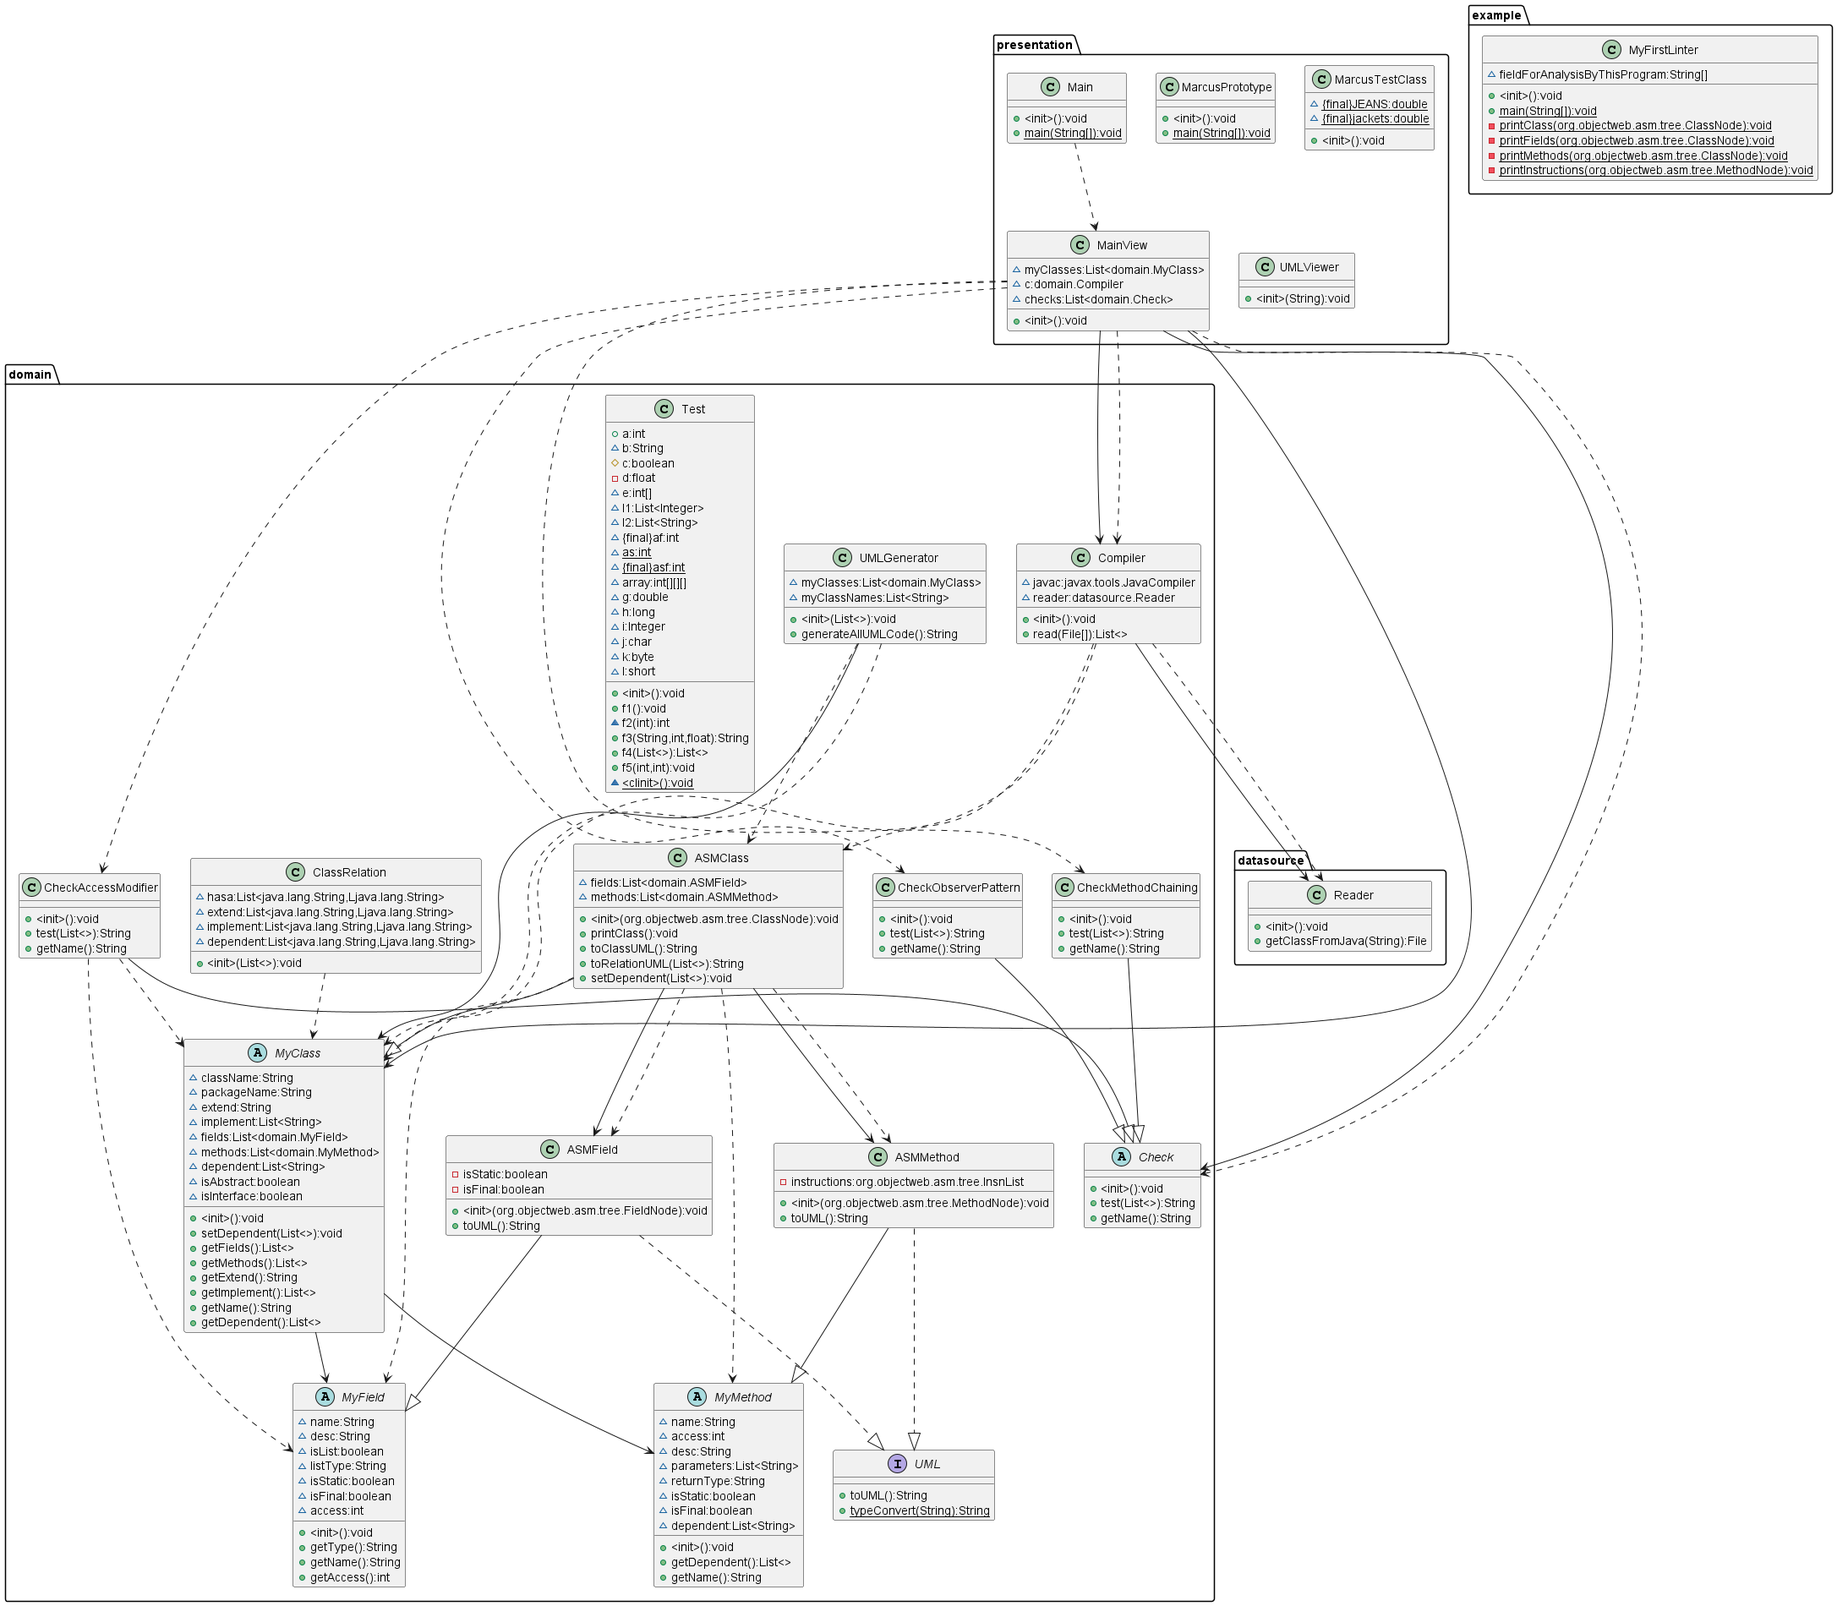
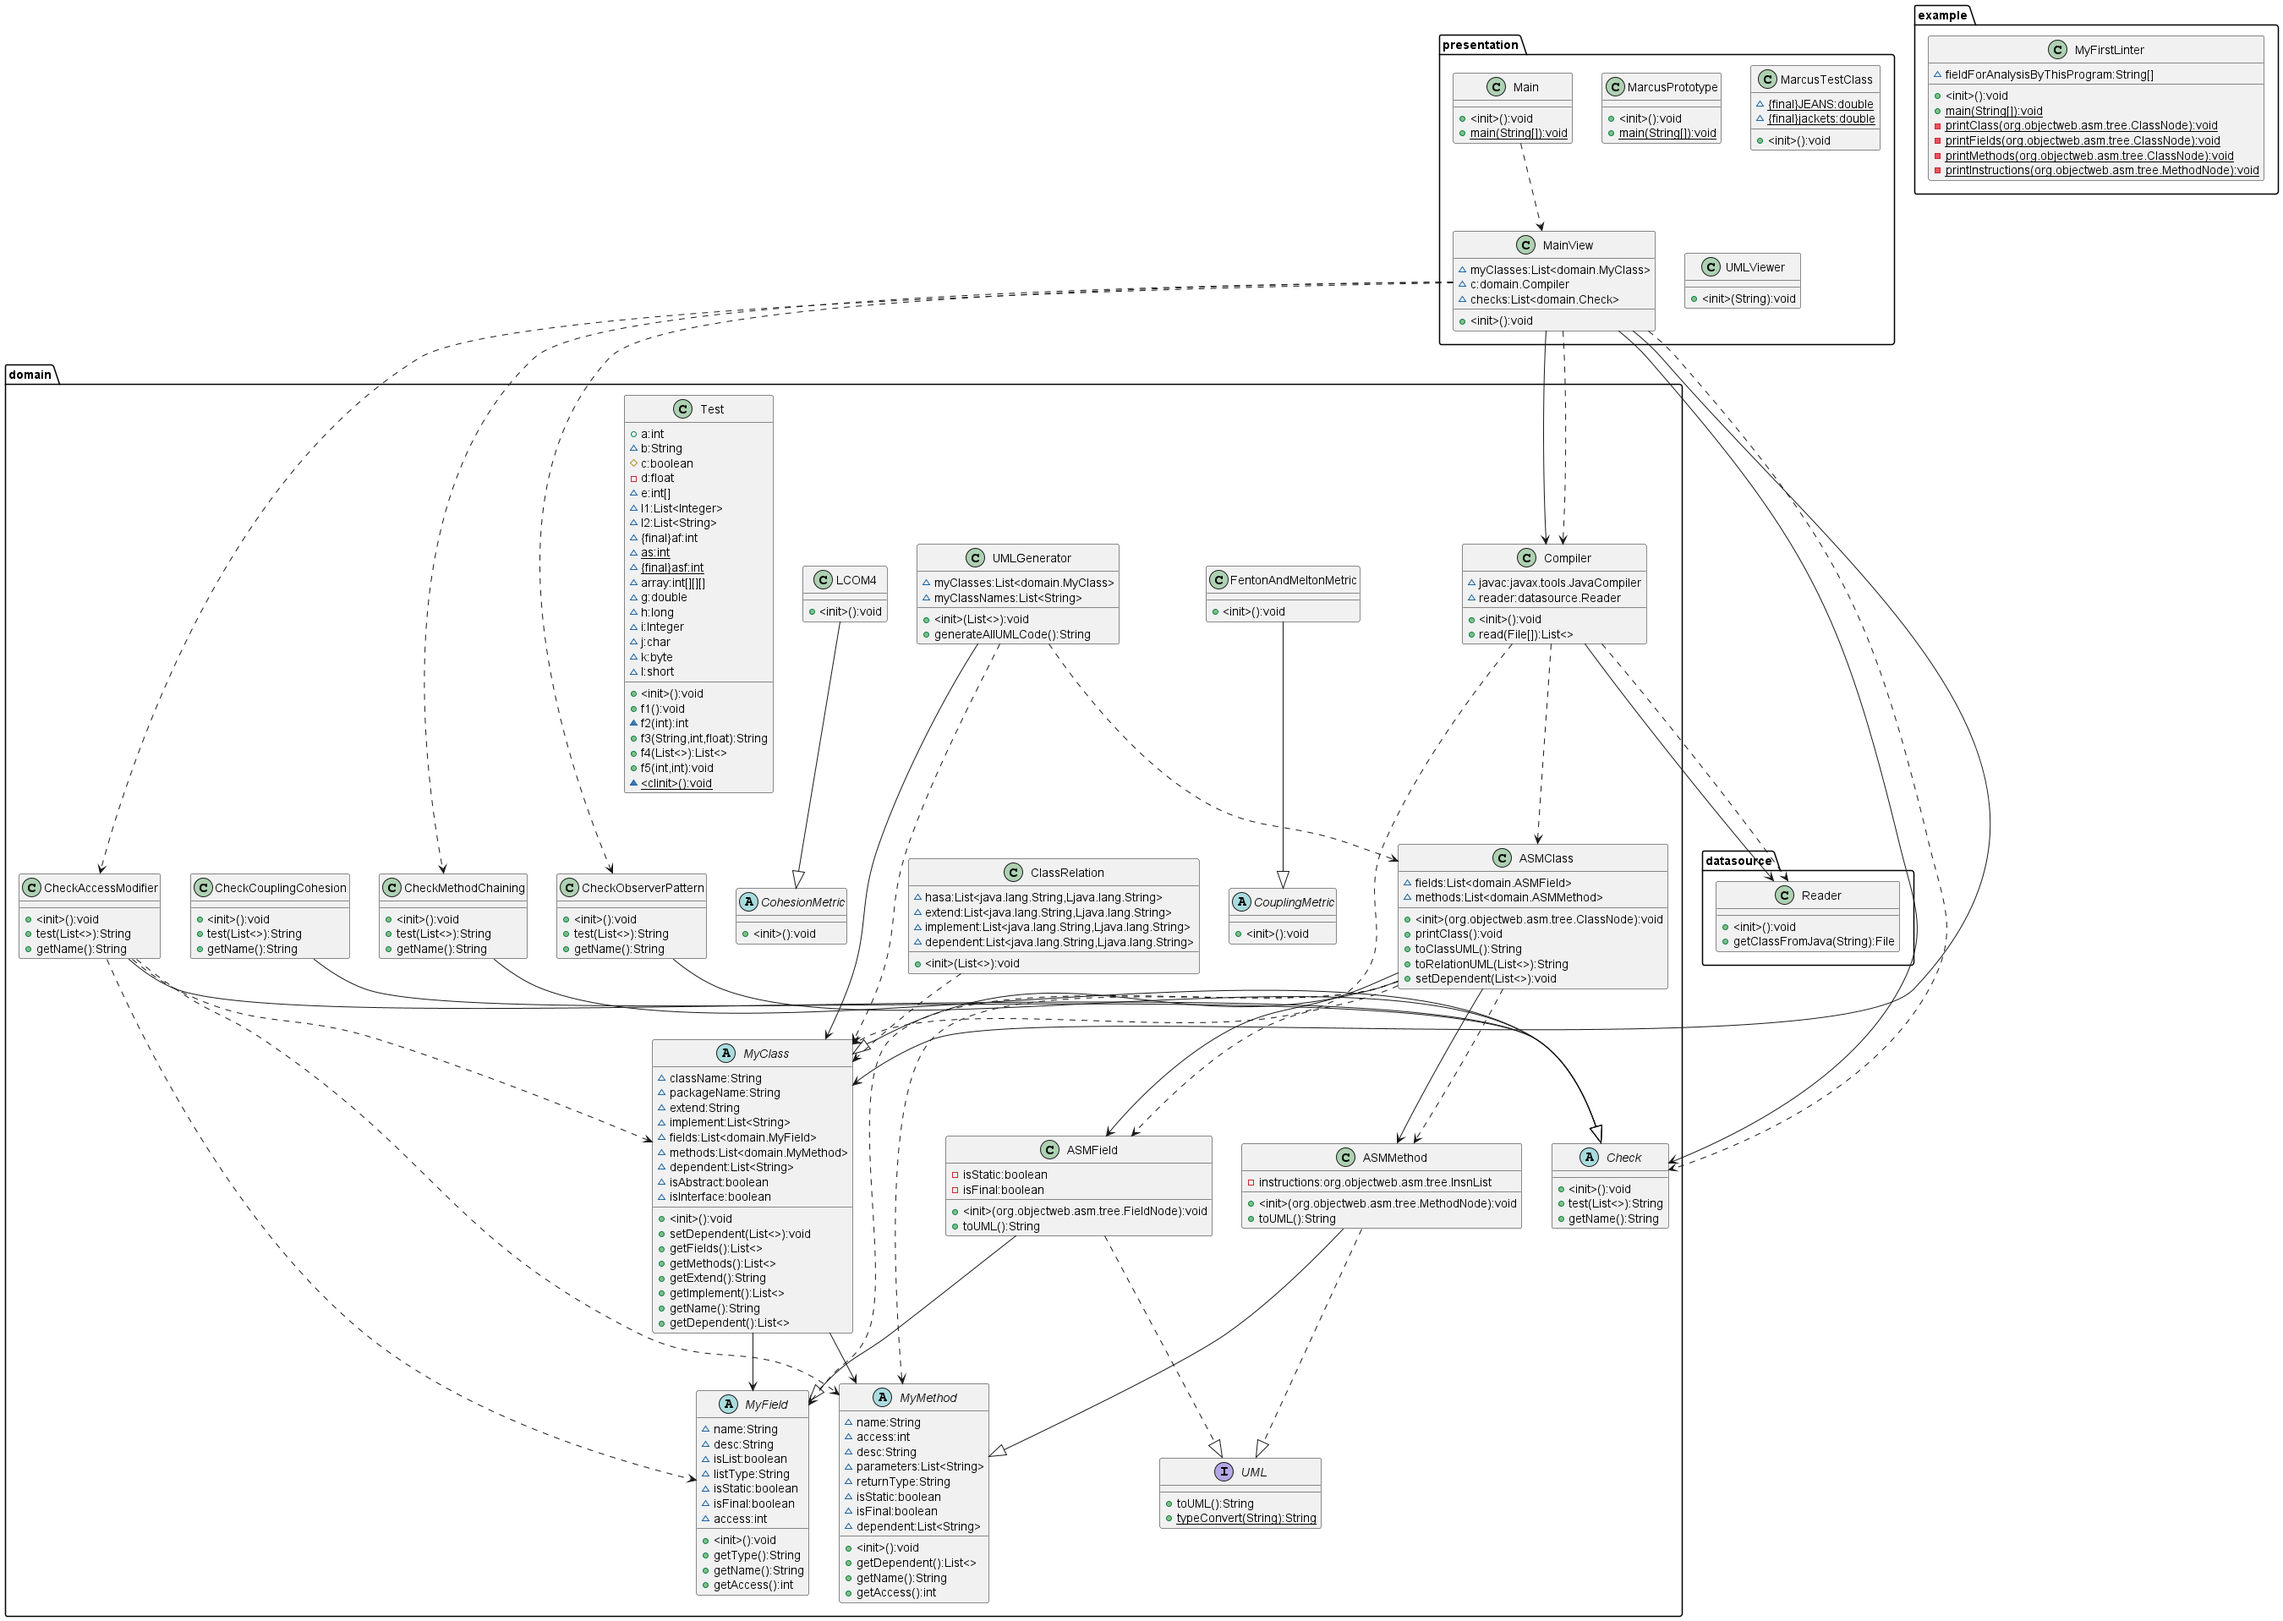
move UML interface to MyMethod and MyField

diff --git a/src/main/java/domain/ASMClass.java b/src/main/java/domain/ASMClass.java
@@ -10,8 +10,8 @@ import org.objectweb.asm.tree.MethodNode;
 
 public class ASMClass extends MyClass {
 //	private ClassNode classNode;
-	List<ASMField> fields;
-	List<ASMMethod> methods;
+//	List<MyField> fields;
+//	List<MyMethod> methods;
 	
 	public ASMClass(ClassNode cn) {
 //		this.classNode=cn;
@@ -62,10 +62,10 @@ public class ASMClass extends MyClass {
 		}
 		s+=this.className;
 		s+="{\n";
-		for(ASMField f:this.fields) {
+		for(MyField f:this.fields) {
 			s+="    "+f.toUML()+"\n";
 		}
-		for(ASMMethod m:this.methods) {
+		for(MyMethod m:this.methods) {
 			s+="    "+m.toUML()+"\n";
 		}
 		s+="}\n\n";

diff --git a/src/main/java/domain/ASMMethod.java b/src/main/java/domain/ASMMethod.java
@@ -45,7 +45,7 @@ public class ASMMethod extends MyMethod implements UML{
 			}else if(node instanceof InsnNode) {
 //				System.out.println("	"+((InsnNode)node).getType());
 			}else if(node instanceof MethodInsnNode) {
-				System.out.println(((MethodInsnNode)node).owner+"	"+((MethodInsnNode)node).name);
+//				System.out.println(((MethodInsnNode)node).owner+"	"+((MethodInsnNode)node).name);
 			}else if(node instanceof FieldInsnNode) {
 //				System.out.println("	"+((FieldInsnNode)node).name);
 //				System.out.println("	"+((FieldInsnNode)node).owner);

diff --git a/src/main/java/domain/MyMethod.java b/src/main/java/domain/MyMethod.java
@@ -2,7 +2,7 @@ package domain;
 
 import java.util.List;
 
-public abstract class MyMethod {
+public abstract class MyMethod implements UML{
 	String name;
 	int access;
 	String desc;

diff --git a/src/main/java/domain/MyField.java b/src/main/java/domain/MyField.java
@@ -1,6 +1,6 @@
 package domain;
 
-public abstract class MyField{
+public abstract class MyField implements UML{
 	String name;
 	String desc;//field type
 	boolean isList;
